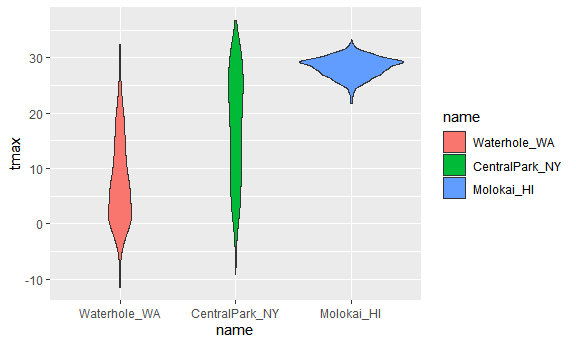
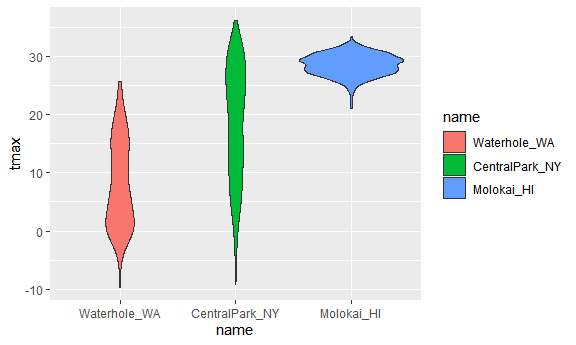
end of viz2 class!

diff --git a/viz_part2.md b/viz_part2.md
@@ -33,8 +33,8 @@ weather_df =
   rnoaa::meteo_pull_monitors(
     c("USW00094728", "USW00022534", "USS0023B17S"),
     var = c("PRCP", "TMIN", "TMAX"), 
-    date_min = "2021-01-01",
-    date_max = "2022-12-31") |>
+    date_min = "2022-01-01",
+    date_max = "2023-12-31") |>
   mutate(
     name = recode(
       id, 
@@ -64,6 +64,8 @@ weather_df =
 
     ## file min/max dates: 1999-09-01 / 2023-09-30
 
+This results in a dataframe with 1914 observations on six variables.
+
 ## Same plot from last time
 
 ``` r
@@ -79,7 +81,7 @@ weather_df |>
   )
 ```
 
-    ## Warning: Removed 17 rows containing missing values (`geom_point()`).
+    ## Warning: Removed 30 rows containing missing values (`geom_point()`).
 
 <img src="viz_part2_files/figure-gfm/unnamed-chunk-3-1.png" width="90%" />
 
@@ -108,7 +110,7 @@ weather_df |>
 
     ## Warning: Transformation introduced infinite values in continuous y-axis
 
-    ## Warning: Removed 142 rows containing missing values (`geom_point()`).
+    ## Warning: Removed 135 rows containing missing values (`geom_point()`).
 
 <img src="viz_part2_files/figure-gfm/unnamed-chunk-4-1.png" width="90%" />
 
@@ -128,7 +130,7 @@ weather_df |>
   viridis::scale_color_viridis(discrete = TRUE)
 ```
 
-    ## Warning: Removed 17 rows containing missing values (`geom_point()`).
+    ## Warning: Removed 30 rows containing missing values (`geom_point()`).
 
 <img src="viz_part2_files/figure-gfm/unnamed-chunk-5-1.png" width="90%" />
 
@@ -150,7 +152,7 @@ weather_df |>
   theme(legend.position = "bottom")
 ```
 
-    ## Warning: Removed 17 rows containing missing values (`geom_point()`).
+    ## Warning: Removed 30 rows containing missing values (`geom_point()`).
 
 <img src="viz_part2_files/figure-gfm/unnamed-chunk-6-1.png" width="90%" />
 
@@ -165,9 +167,9 @@ weather_df |>
 
     ## `geom_smooth()` using method = 'loess' and formula = 'y ~ x'
 
-    ## Warning: Removed 17 rows containing non-finite values (`stat_smooth()`).
+    ## Warning: Removed 30 rows containing non-finite values (`stat_smooth()`).
 
-    ## Warning: Removed 17 rows containing missing values (`geom_point()`).
+    ## Warning: Removed 30 rows containing missing values (`geom_point()`).
 
 <img src="viz_part2_files/figure-gfm/unnamed-chunk-7-1.png" width="90%" />
 
@@ -185,6 +187,10 @@ ggplot(nyc_weather_df, aes(x = date, y = tmax, color = name)) +
   geom_line(data = hawaii_weather_df)
 ```
 
+    ## Warning: Removed 5 rows containing missing values (`geom_point()`).
+
+    ## Warning: Removed 5 rows containing missing values (`geom_line()`).
+
 <img src="viz_part2_files/figure-gfm/unnamed-chunk-7-2.png" width="90%" />
 
 ## `patchwork`
@@ -196,7 +202,7 @@ weather_df |>
   facet_grid(. ~ name)
 ```
 
-    ## Warning: Removed 17 rows containing missing values (`geom_point()`).
+    ## Warning: Removed 30 rows containing missing values (`geom_point()`).
 
 <img src="viz_part2_files/figure-gfm/unnamed-chunk-8-1.png" width="90%" />
 
@@ -224,12 +230,12 @@ ggp_tmax_date =
 (ggp_temp_scatter + ggp_prcp_density) / ggp_tmax_date
 ```
 
-    ## Warning: Removed 17 rows containing missing values (`geom_point()`).
+    ## Warning: Removed 30 rows containing missing values (`geom_point()`).
 
     ## `geom_smooth()` using method = 'loess' and formula = 'y ~ x'
 
-    ## Warning: Removed 17 rows containing non-finite values (`stat_smooth()`).
-    ## Removed 17 rows containing missing values (`geom_point()`).
+    ## Warning: Removed 30 rows containing non-finite values (`stat_smooth()`).
+    ## Removed 30 rows containing missing values (`geom_point()`).
 
 <img src="viz_part2_files/figure-gfm/unnamed-chunk-9-1.png" width="90%" />
 
@@ -244,7 +250,7 @@ weather_df |>
   geom_boxplot()
 ```
 
-    ## Warning: Removed 17 rows containing non-finite values (`stat_boxplot()`).
+    ## Warning: Removed 30 rows containing non-finite values (`stat_boxplot()`).
 
 <img src="viz_part2_files/figure-gfm/unnamed-chunk-10-1.png" width="90%" />
 
@@ -260,10 +266,63 @@ weather_df |>
     ## Warning: There was 1 warning in `mutate()`.
     ## ℹ In argument: `name = fct_reorder(name, tmax)`.
     ## Caused by warning:
-    ## ! `fct_reorder()` removing 17 missing values.
+    ## ! `fct_reorder()` removing 30 missing values.
     ## ℹ Use `.na_rm = TRUE` to silence this message.
     ## ℹ Use `.na_rm = FALSE` to preserve NAs.
 
-    ## Warning: Removed 17 rows containing non-finite values (`stat_ydensity()`).
+    ## Warning: Removed 30 rows containing non-finite values (`stat_ydensity()`).
 
 <img src="viz_part2_files/figure-gfm/unnamed-chunk-10-2.png" width="90%" />
+
+## complicated FAS plot
+
+``` r
+litters_df =
+  read_csv("data/FAS_litters.csv") |> 
+  janitor::clean_names() |> 
+  separate(group, into = c("dose", "day_of_tx"), sep = 3)
+```
+
+    ## Rows: 49 Columns: 8
+    ## ── Column specification ────────────────────────────────────────────────────────
+    ## Delimiter: ","
+    ## chr (2): Group, Litter Number
+    ## dbl (6): GD0 weight, GD18 weight, GD of Birth, Pups born alive, Pups dead @ ...
+    ## 
+    ## ℹ Use `spec()` to retrieve the full column specification for this data.
+    ## ℹ Specify the column types or set `show_col_types = FALSE` to quiet this message.
+
+``` r
+pups_df = 
+  read_csv("data/FAS_pups.csv") |> 
+  janitor::clean_names()
+```
+
+    ## Rows: 313 Columns: 6
+    ## ── Column specification ────────────────────────────────────────────────────────
+    ## Delimiter: ","
+    ## chr (1): Litter Number
+    ## dbl (5): Sex, PD ears, PD eyes, PD pivot, PD walk
+    ## 
+    ## ℹ Use `spec()` to retrieve the full column specification for this data.
+    ## ℹ Specify the column types or set `show_col_types = FALSE` to quiet this message.
+
+``` r
+fas_df =
+  left_join(pups_df, litters_df, by = "litter_number")
+
+fas_df |> 
+  select(dose, day_of_tx, starts_with("pd")) |> 
+  pivot_longer(
+    pd_ears:pd_walk,
+    names_to = "outcome",
+    values_to = "pn_day"
+  ) |> 
+  drop_na() |> 
+  mutate(outcome = fct_reorder(outcome, pn_day)) |> 
+  ggplot(aes(x = dose, y = pn_day)) +
+  geom_violin() +
+  facet_grid(day_of_tx ~ outcome)
+```
+
+<img src="viz_part2_files/figure-gfm/unnamed-chunk-11-1.png" width="90%" />
